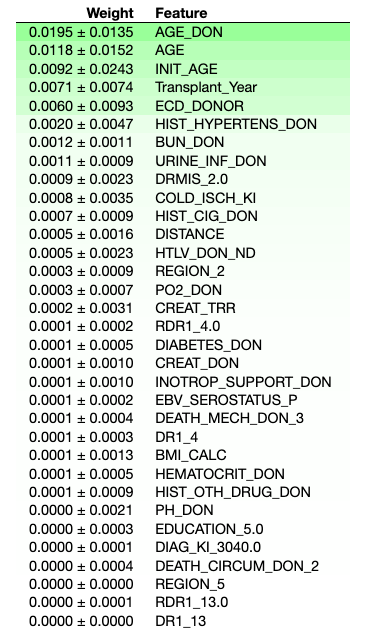
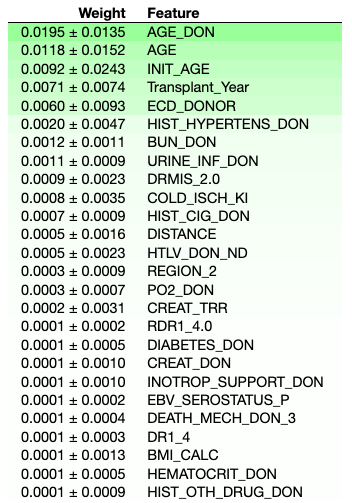
26 feature importances

diff --git a/README.md b/README.md
@@ -91,7 +91,11 @@ Random Survival Forests training and hyperparameter tuning was performed on Goog
 The hyperparameter optimization metric was Harrell's Concordance Index. The optimal concordance index value was 0.621 with parameters of `n_estimators` = 300, `min_sample_split` = 0.05, and `min_samples_leaf` = 0.05.
 
 #### Feature Importance
-Feature importance was obtained using the `eli5` `PermutationImportance` method, as outlined in the `scikit-survival` Random Survival Forests documentation.<sup>[11](https://scikit-survival.readthedocs.io/en/latest/user_guide/random-survival-forest.html)</sup>
+Feature importance was obtained using the `eli5` `PermutationImportance` method, as outlined in the `scikit-survival` Random Survival Forests documentation.<sup>[11](https://scikit-survival.readthedocs.io/en/latest/user_guide/random-survival-forest.html)</sup> The top 26 features and their weights are shown below. These features were selected for DeepSurv. 
+
+
+
+![Top 33 features](images/feature_importances.png)
 
 
 #### Model Performance
